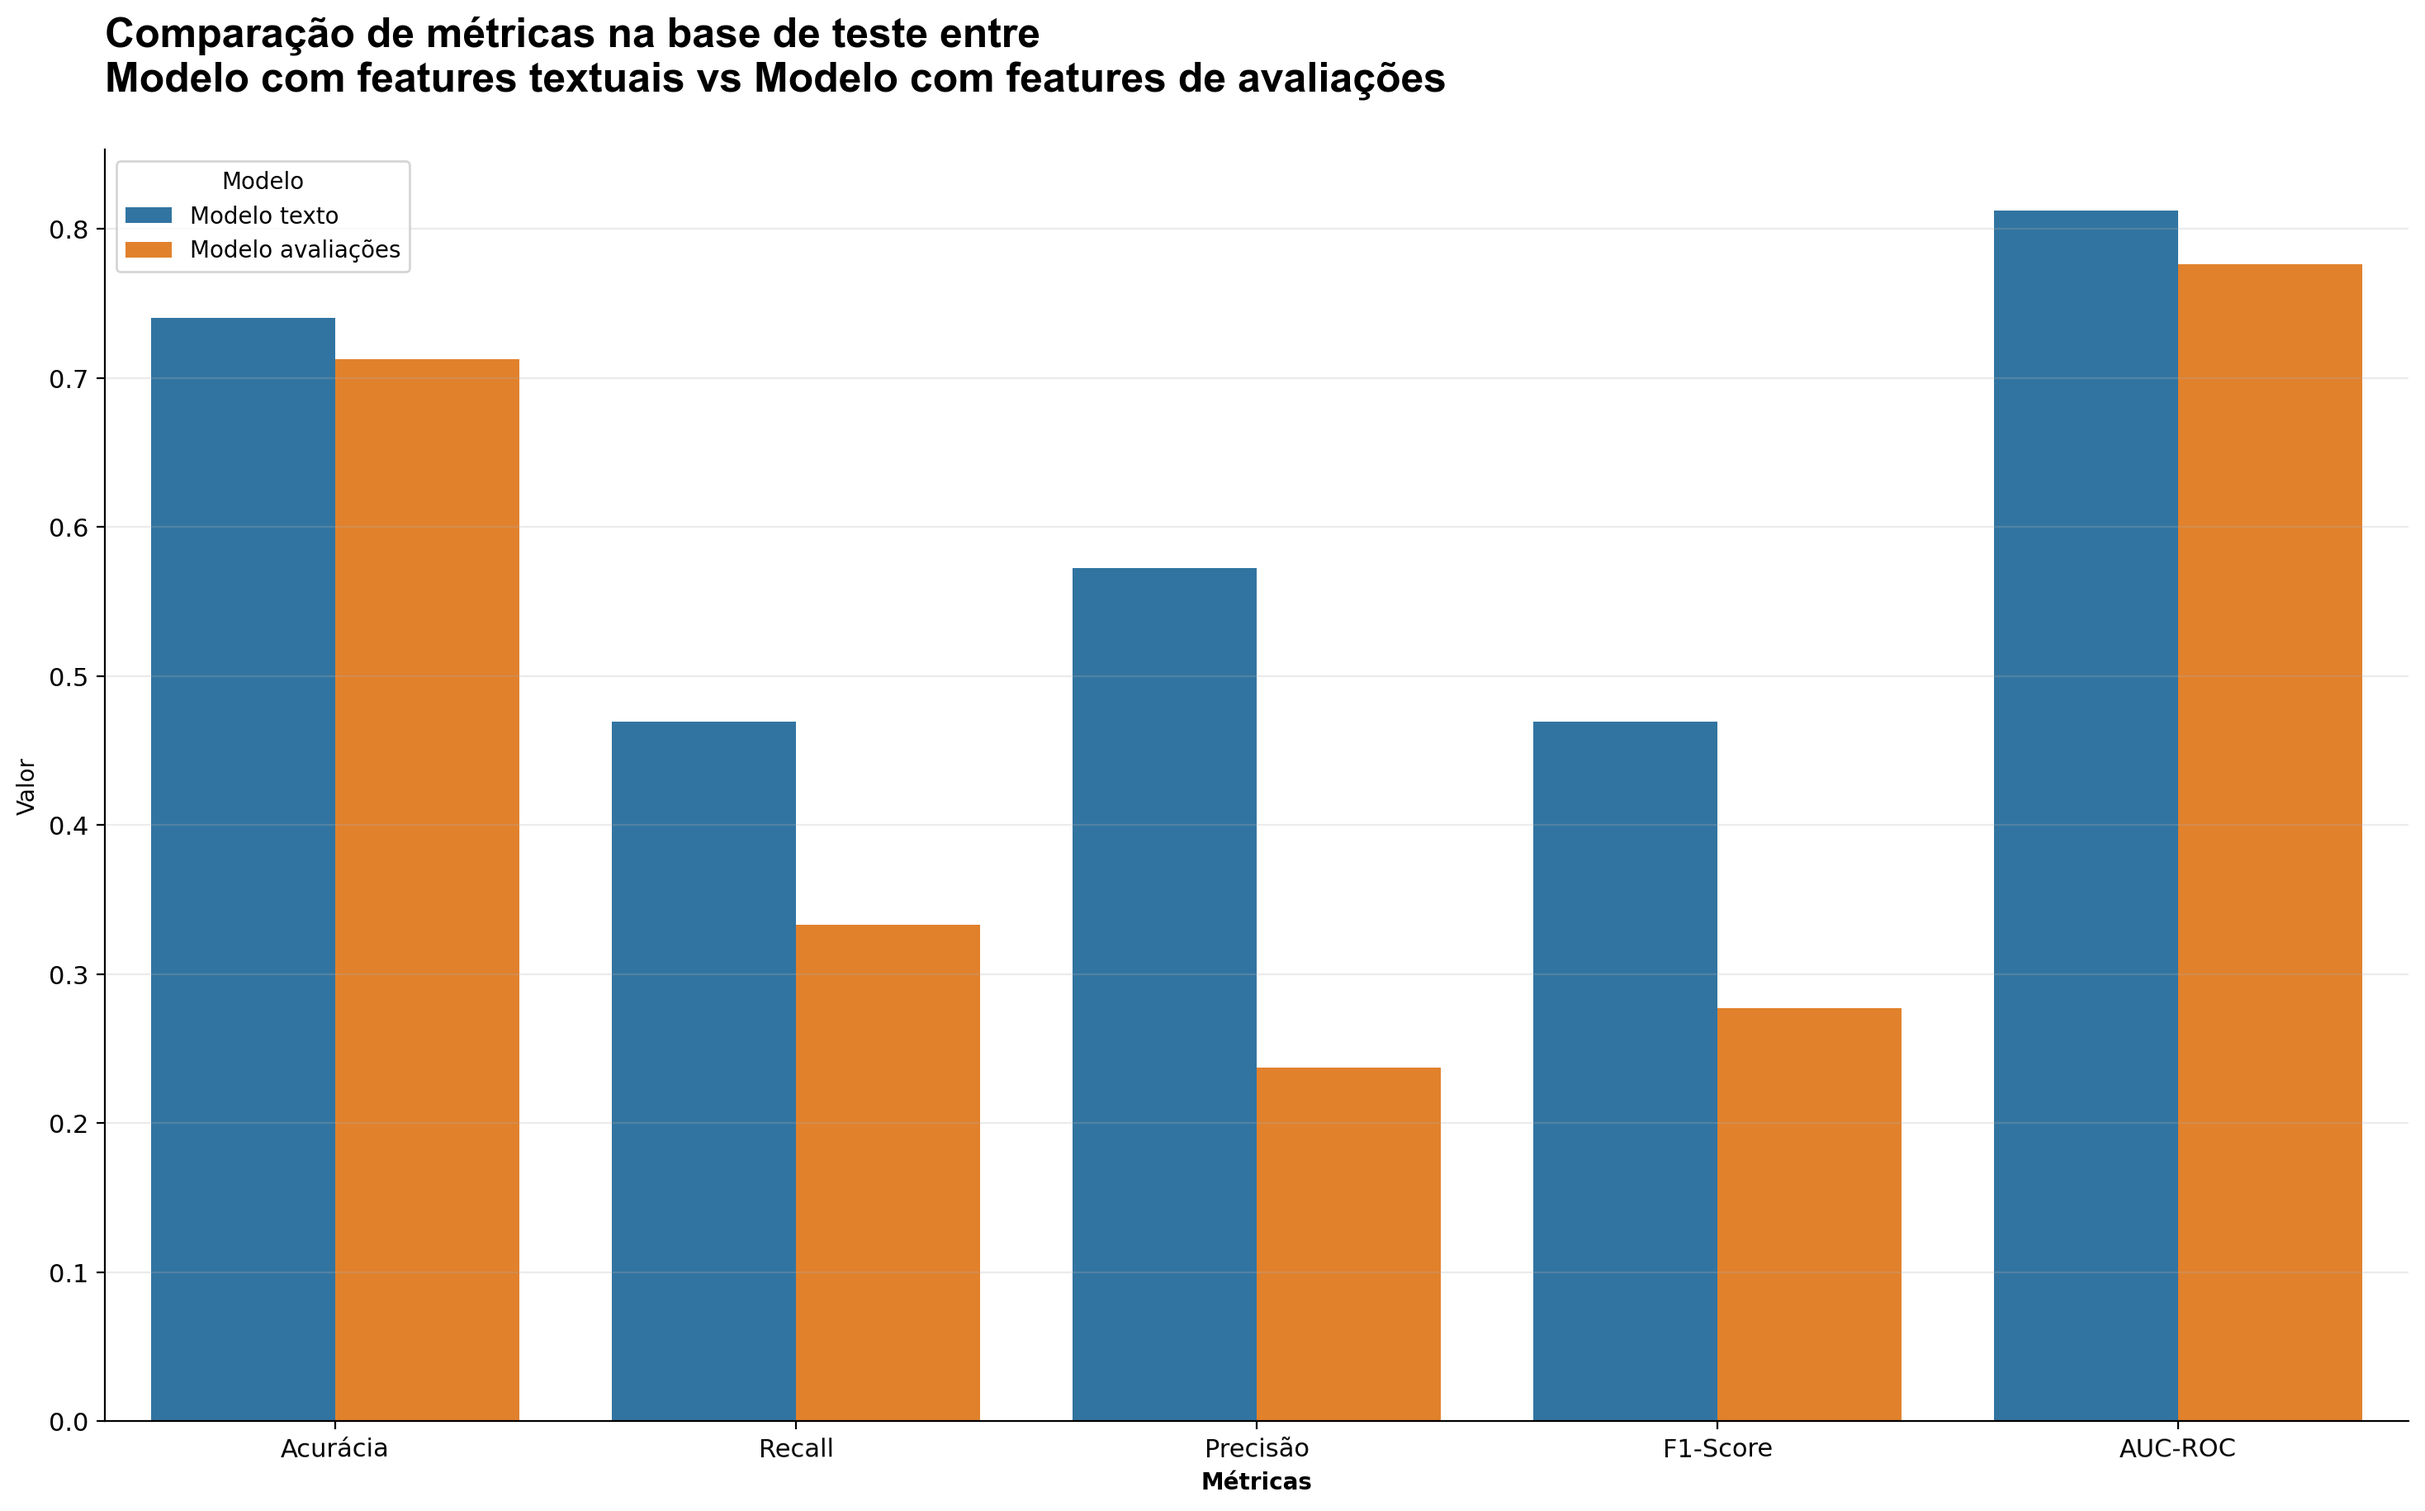
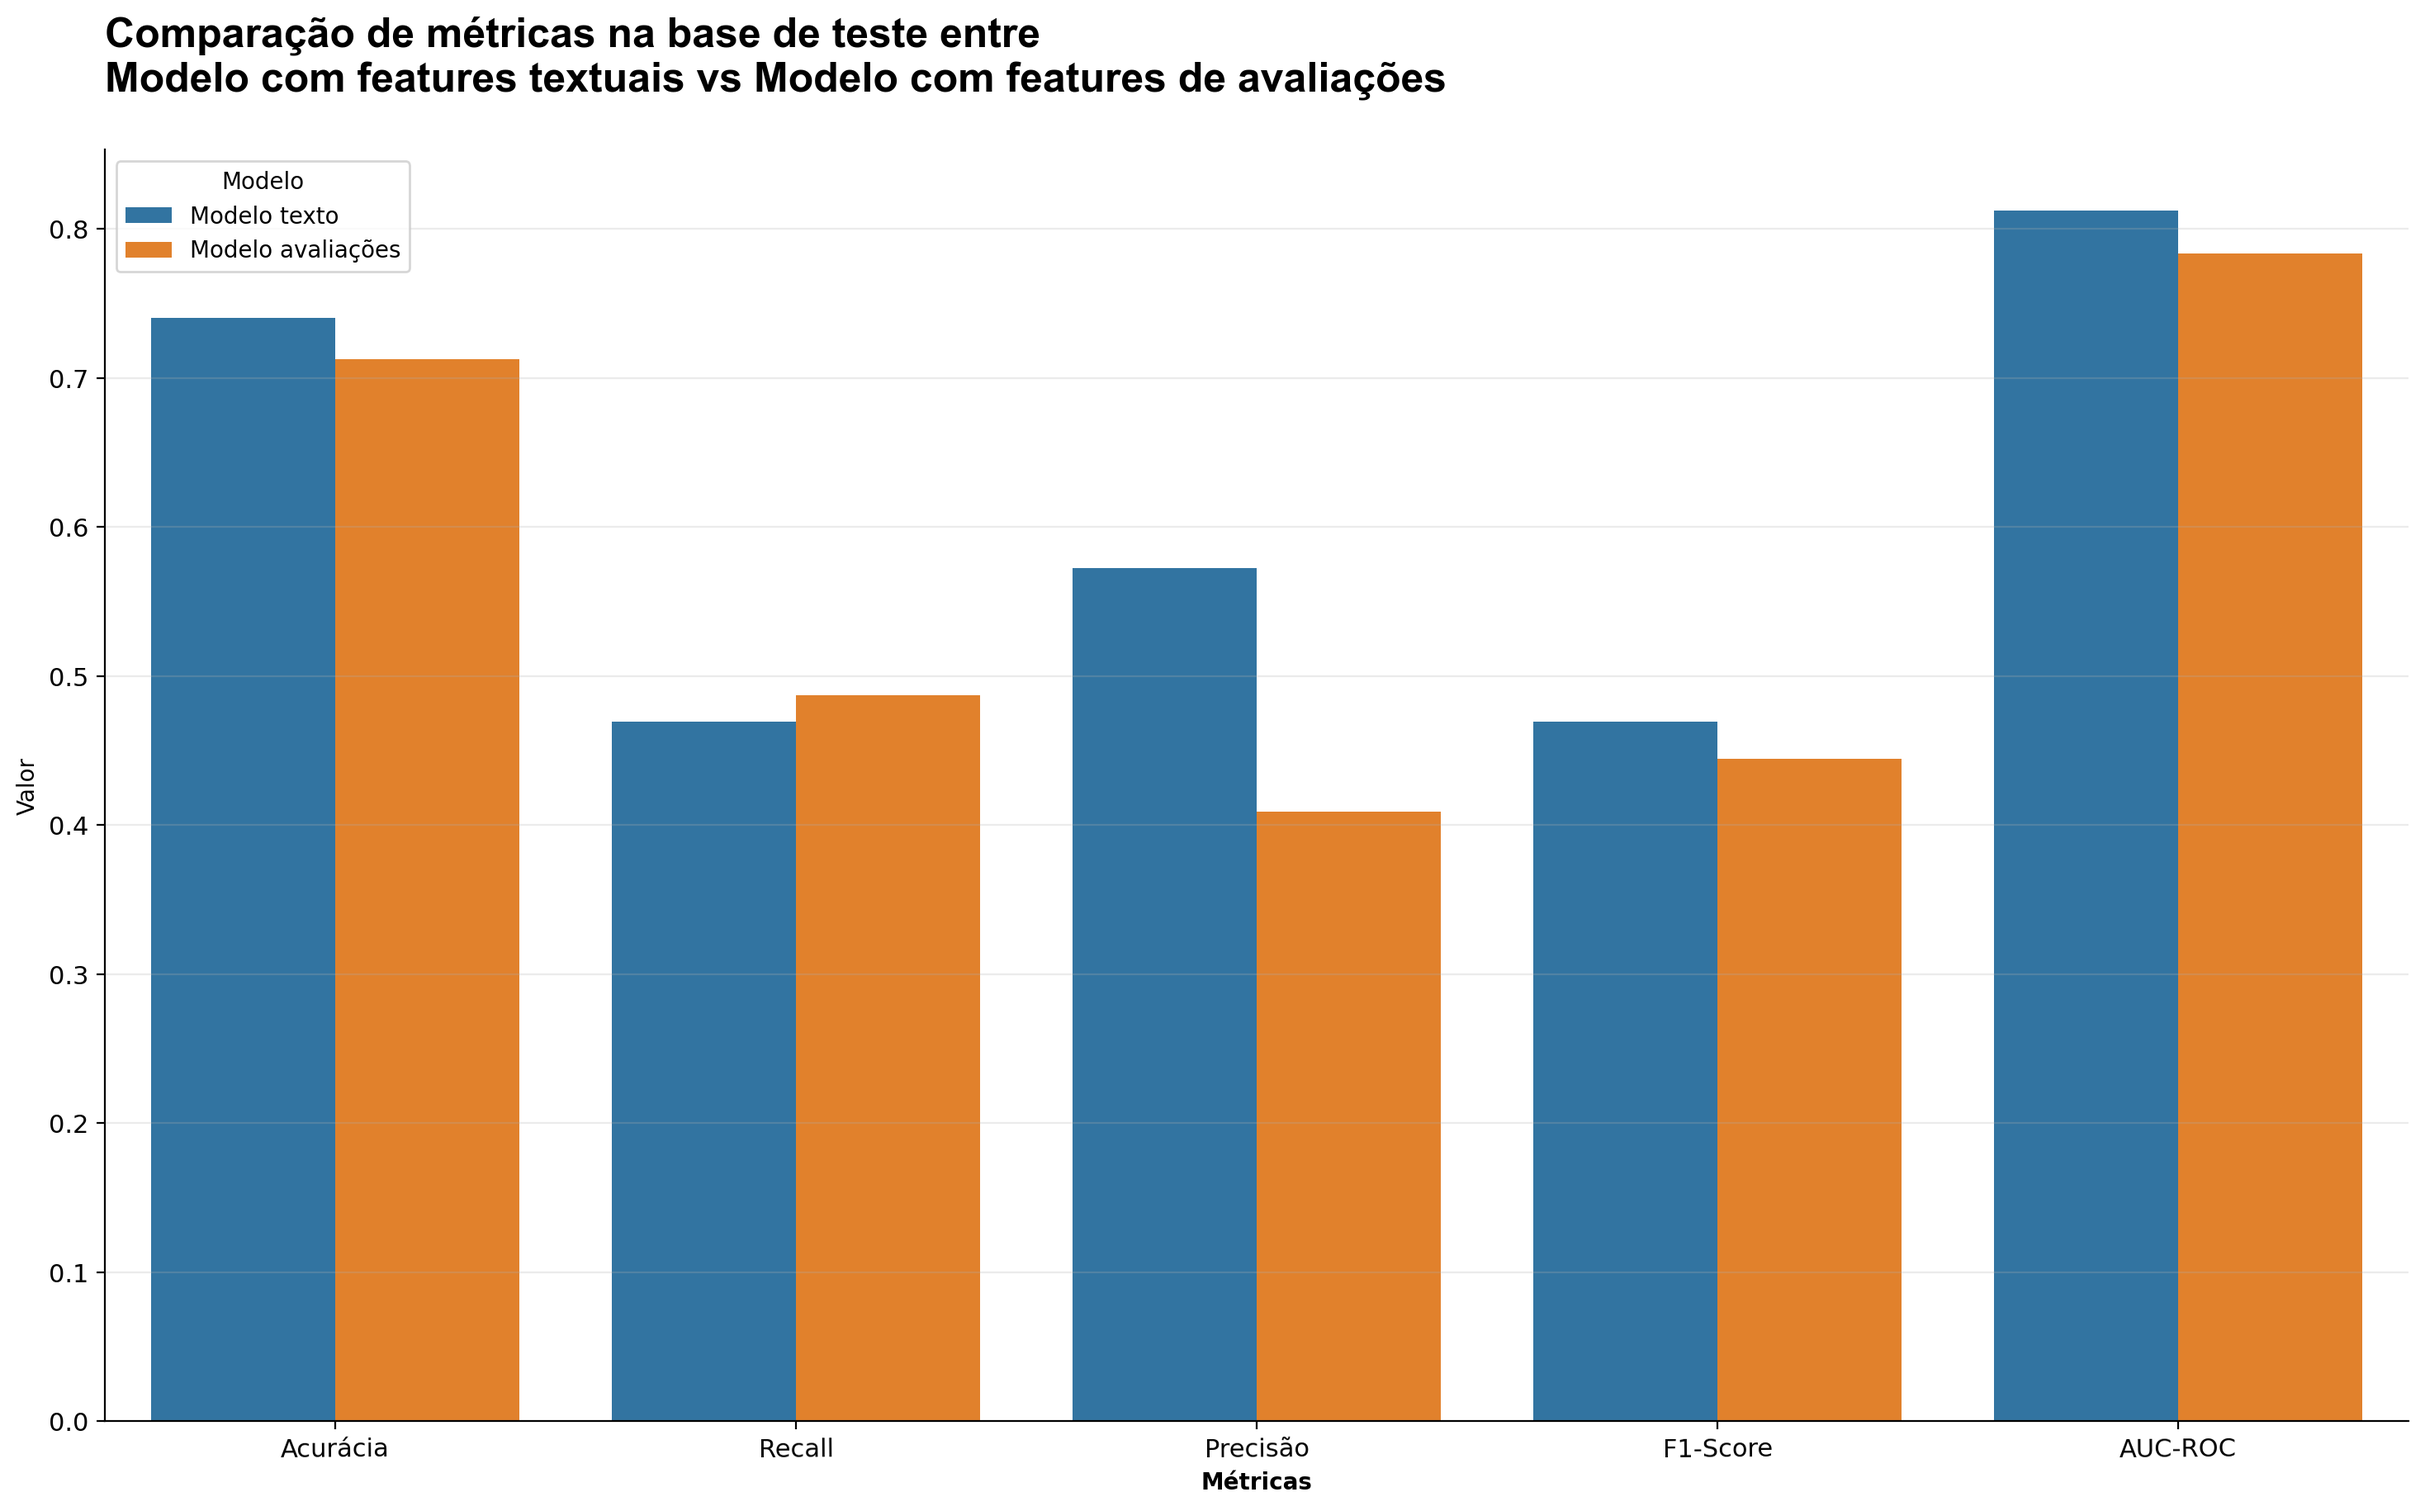
Documentando

diff --git a/README.md b/README.md
@@ -232,7 +232,7 @@ Para avaliar o desempenho dos modelos, utilizei as principais métricas de avali
 
 ![alt text](images/image11.png)
 
-O gráfico acima deixa claro que **o modelo que usou as informações textuais de** ``Review`` **e** ``Review_Title`` **conseguiu um melhor desempenho com os dados de teste em todas as métricas de avaliação**.  
+O gráfico acima deixa claro que **o modelo que usou as informações textuais de** ``Review`` **e** ``Review_Title`` **conseguiu um melhor desempenho com os dados de teste na maioria das métricas de avaliação**.  
 E portanto, é o melhor modelo para classificação de sentimentos com os dados trabalhados.
 
 # 5. Fazendo uma análise sobre o impacto de atrasos de viagem no NPS de 3 companhias aéreas.
